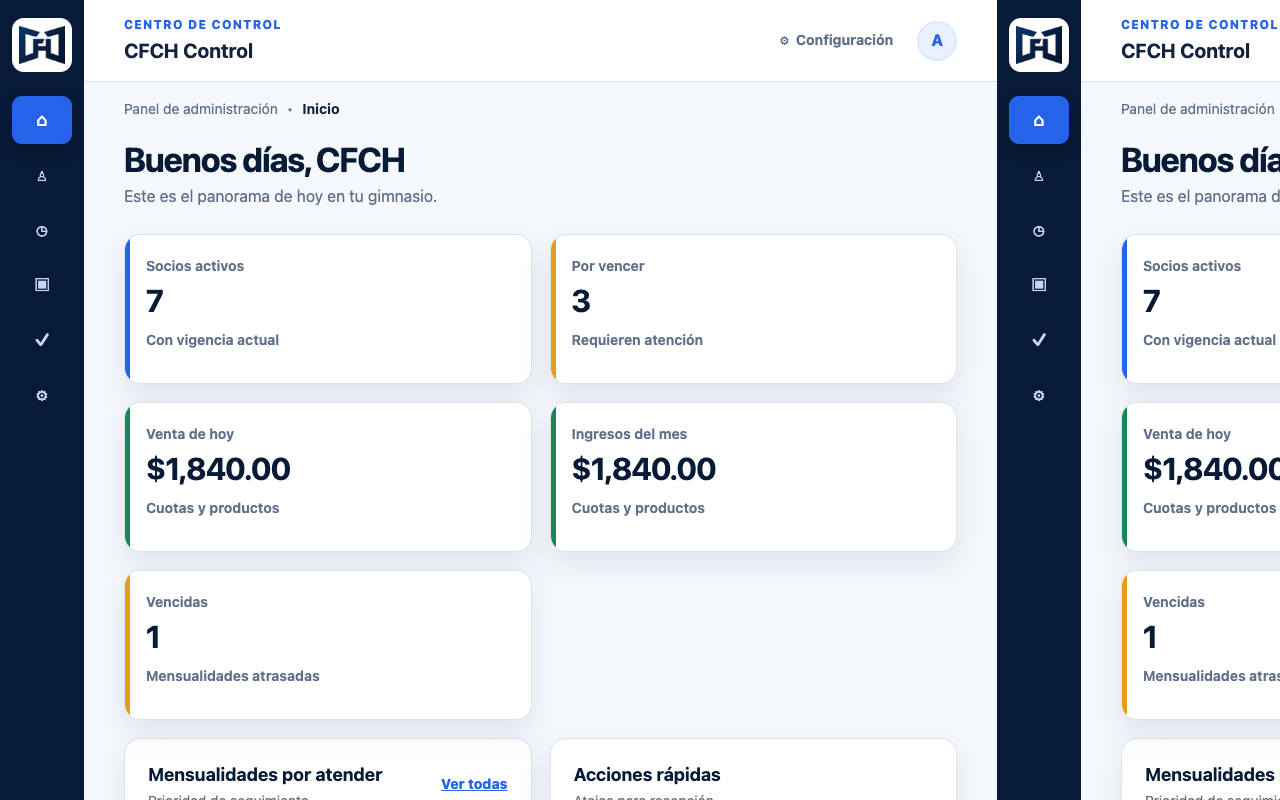
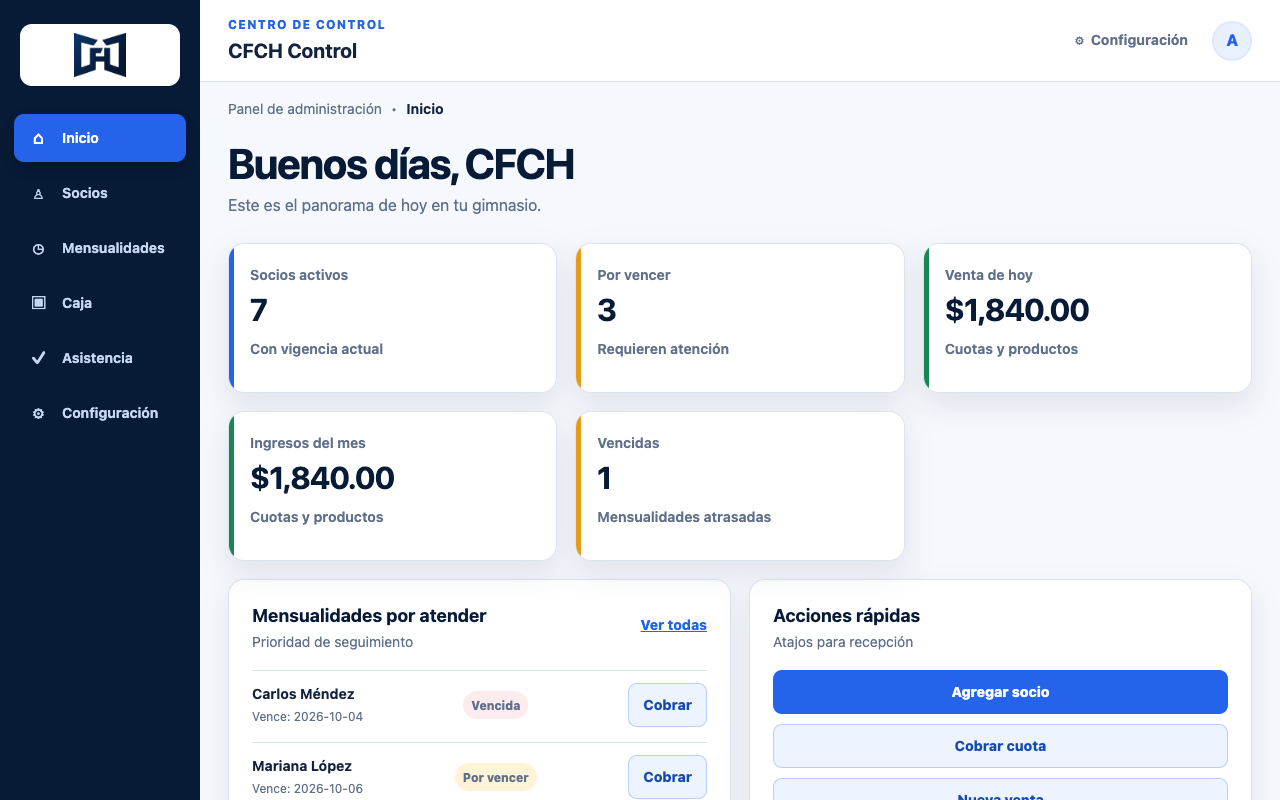
refactor: simplify header, update public labels, streamline project copy and update CFCH preview

diff --git a/src/data/projects.ts b/src/data/projects.ts
@@ -70,8 +70,7 @@ export interface LanguageItem {
 
 export const PROFILE_DATA = {
   fullName: "Heidelbergh Oliver Canto",
-  title: "Desarrollador Front End",
-  subtitle: "Experiencia Front End y Full Stack",
+  title: "Desarrollador Front End · React, Next.js y TypeScript",
   location: "Quintana Roo, México",
   statement:
     "Desarrollador Front End con experiencia Full Stack desde 2021, enfocado en React, Next.js y TypeScript. Construyo interfaces legibles, eficientes y accesibles, con experiencia comprobada en integración de APIs REST y GraphQL, autenticación con Supabase, manejo de datos y diseño responsive adaptado a móvil.",
@@ -94,15 +93,15 @@ export const PROJECTS_DATA: Project[] = [
     year: "2026",
     category: "Catálogo y Showroom Digital",
     featured: true,
-    statusLabel: "Demostración pública disponible",
+    statusLabel: "Demo disponible",
     needSolved:
       "Digitalización del catálogo de revestimientos arquitectónicos para agilizar la consulta técnica de contratistas y facilitar la cotización directa de materiales.",
     description:
-      "Catálogo comercial y showroom visual de acabados (lambrín, piedra flexible, paneles PVC tipo mármol, pisos SPC, deck exterior y luminarias). Diseñado para consulta ágil de especificaciones técnicas y enlace directo a cotización personalizada por WhatsApp.",
+      "Catálogo digital y showroom visual para consulta ágil de especificaciones de revestimientos arquitectónicos y generación paramétrica de cotizaciones directas vía WhatsApp por código SKU.",
     technicalDecision:
-      "Renderizado estático optimizado con Vite/Vinext y Next.js, implementando filtrado en memoria sin recargas para asegurar respuesta instantánea en dispositivos móviles en obra.",
+      "Renderizado estático optimizado con Vite y Next.js con filtrado en memoria sin recargas para asegurar respuesta instantánea en dispositivos móviles en obra.",
     personalContribution:
-      "Desarrollo completo de la interfaz en Next.js, carrusel editorial interactivo con imágenes de alta definición, sistema de filtros dinámicos por categoría y generador paramétrico de enlaces comerciales a WhatsApp por código SKU.",
+      "Desarrollo completo de la interfaz en Next.js, carrusel editorial interactivo con imágenes optimizadas, sistema de filtros dinámicos por categoría y generador de enlaces comerciales a WhatsApp.",
     verifiedFeatures: [
       "Filtrado instantáneo en memoria de productos y colecciones por categoría técnica.",
       "Generador de mensajes de cotización vinculados al SKU del material seleccionado.",
@@ -135,15 +134,15 @@ export const PROJECTS_DATA: Project[] = [
     year: "2026",
     category: "Panel Administrativo / CRM Deportivo",
     featured: false,
-    statusLabel: "Demostración pública disponible",
+    statusLabel: "Demo disponible",
     needSolved:
       "Administración integral de socios, cobro de mensualidades por planes y registro de punto de venta (POS) para centros deportivos, eliminando registros manuales en papel.",
     description:
-      "Panel de administración interactivo para gestión de gimnasios y centros funcionales. Permite consultar el estado de membresías de socios (al corriente, por vencer, vencidas), registrar pagos, operar el punto de venta de mostrador y registrar asistencia diaria con persistencia demostrativa local.",
+      "Panel de administración interactivo para gestión de gimnasios: seguimiento de socios, control de vigencias de membresías y punto de venta (POS) de mostrador.",
     technicalDecision:
-      "Arquitectura SPA modular en JavaScript estructurada con separación de dominio, servicios de validación desacoplados, máquina de estado centralizada e interfaz reactiva sin dependencias externas pesadas.",
+      "Arquitectura SPA modular en JavaScript estructurada con separación de dominio, servicios de validación desacoplados y máquina de estado centralizada.",
     personalContribution:
-      "Arquitectura de componentes de interfaz (AppShell, diálogos modales, tablas de datos con ordenamiento), gestión de estado en memoria y flujos de cobro con cálculo de vigencias.",
+      "Construcción de la interfaz (AppShell, modales accesibles y tablas con ordenamiento), gestión de estado en memoria y flujos de cobro con cálculo de vigencias.",
     verifiedFeatures: [
       "Tablero de control con métricas en tiempo real de socios activos, asistencias y ventas del día.",
       "Módulo de socios con búsqueda por nombre y filtros por vigencia de membresía.",
@@ -176,15 +175,15 @@ export const PROJECTS_DATA: Project[] = [
     year: "2026",
     category: "Menú Digital y Pedidos",
     featured: false,
-    statusLabel: "Demostración pública disponible",
+    statusLabel: "Demo disponible",
     needSolved:
       "Catálogo digital accesible para restaurantes que permite a los comensales seleccionar platillos y formalizar pedidos directos sin intermediarios ni comisiones de plataformas.",
     description:
-      "Demostración interactiva de menú digital para restaurantes y cafeterías. Integra catálogo fotográfico organizado por categorías gastronómicas, selector de porciones y notas especiales, carrito de compra flotante con cálculo en vivo y generador de resumen para pedido directo.",
+      "Demostración interactiva de menú digital para restaurantes con navegación rápida por categorías, selección de opciones y carrito flotante con cálculo en vivo.",
     technicalDecision:
-      "Maquetación editorial ligera en HTML5 semántico y Vanilla JavaScript, garantizando carga inmediata bajo conexiones móviles lentas y experiencia táctil fluida con drawer deslizable.",
+      "Maquetación semántica y ligera con Vanilla JavaScript y CSS moderno para asegurar carga inmediata bajo conexiones móviles lentas.",
     personalContribution:
-      "Desarrollo del flujo interactivo de carrito en el cliente: cálculo reactivo de totales, persistencia de notas de comensal, apertura/cierre accesible del drawer y formateo de texto de orden.",
+      "Desarrollo del flujo interactivo del carrito en el cliente: cálculo reactivo de importes, notas de comensal y drawer lateral accesible.",
     verifiedFeatures: [
       "Catálogo fotográfico con navegación rápida por categorías y estados activos.",
       "Carrito interactivo con controles de adición, sustracción y desglose de precio.",
@@ -217,15 +216,15 @@ export const PROJECTS_DATA: Project[] = [
     year: "2026",
     category: "Aplicación Web de Eventos",
     featured: false,
-    statusLabel: "Demostración pública disponible",
+    statusLabel: "Demo disponible",
     needSolved:
       "Gestión de invitaciones digitales para eventos con confirmación de asistencia en tiempo real, asignación personalizada de cupos y acceso administrativo protegido.",
     description:
-      "Sitio web para evento con experiencia multimedia: carrusel a pantalla completa, reproductor de música ambiental, cuenta regresiva dinámica, visor fotográfico en lightbox y formulario RSVP demostrativo con control estricto de cupos.",
+      "Aplicación web para evento con experiencia multimedia: cuenta regresiva, reproductor musical ambiental, galería en lightbox y formulario RSVP con asignación de pases.",
     technicalDecision:
-      "Arquitectura desacoplada en JavaScript Vanilla modular con cliente Supabase en el panel administrativo, permitiendo una experiencia de usuario rápida y liviana en la invitación pública junto con acceso restringido para los anfitriones.",
+      "Arquitectura desacoplada en JavaScript modular con cliente Supabase en el panel de administración privado para separar la experiencia pública de la gestión de invitados.",
     personalContribution:
-      "Construcción completa de la interfaz con HTML5 semántico, CSS3 modular y JavaScript orientado a eventos; integración del cliente Supabase para consulta en panel de gestión privada.",
+      "Construcción completa de la interfaz con HTML5 semántico y CSS3 modular, lógica orientada a eventos e integración de Supabase para consulta en panel privado.",
     verifiedFeatures: [
       "Formulario RSVP con validación de invitados, opción de confirmación y selección de pases asignados.",
       "Panel de administración privado con autenticación Supabase JS para consulta de confirmados.",
@@ -262,11 +261,11 @@ export const PROJECTS_DATA: Project[] = [
     needSolved:
       "Acompañamiento personal guiado a través de experiencias de oración estructuradas, eliminando la fricción y distracciones para el usuario en momentos de silencio y contemplación.",
     description:
-      "Aplicación web de oración y acompañamiento contemplativo por etapas. Proporciona un catálogo temático de reflexiones con audio sincronizado, el módulo interactivo 'Camino' para registrar y categorizar intenciones personales, y sesiones autenticadas persistentes mediante Supabase SSR. Presentado como proyecto en desarrollo con código fuente público en GitHub.",
+      "Aplicación web de oración y acompañamiento contemplativo por etapas, con reflexiones guiadas en audio y registro categorizado de intenciones personales ('Camino').",
     technicalDecision:
-      "Implementación de Next.js App Router combinando Server Components para la carga inicial de datos con Client Components en las sesiones interactivas, reduciendo la sobrecarga de estado en el cliente y manteniendo la sincronización de sesión con cookies HTTP-only vía @supabase/ssr.",
+      "Next.js App Router combinando Server Components para carga inicial y Client Components para sesiones interactivas, con sincronización de sesiones mediante cookies HTTP-only vía @supabase/ssr.",
     personalContribution:
-      "Arquitectura completa del front-end en Next.js (React 19, TypeScript), diseño de componentes modulares con Tailwind CSS, gestión de estado con contextos React e integración de autenticación persistente.",
+      "Arquitectura del front-end en Next.js (React 19, TypeScript), diseño de componentes modulares con Tailwind CSS, contextos de estado e integración de autenticación persistente.",
     verifiedFeatures: [
       "Flujo guiado de oración por etapas con controles multimedia libres de fricción.",
       "Módulo 'Camino' para gestión de intenciones con filtros de estado (orando, agradecida, pausada).",
@@ -303,11 +302,11 @@ export const PROJECTS_DATA: Project[] = [
     needSolved:
       "Gestión integral de catálogo de productos, procesamiento de órdenes, administración de inventarios y control de acceso seguro mediante panel administrativo.",
     description:
-      "Plataforma de comercio electrónico con panel administrativo privado desarrollado dentro de un equipo ágil de tres ingenieros en Kaizenzo. Incluye exploración y filtrado dinámico de productos, gestión de tablas relacionales, operaciones CRUD completas y autenticación con control de roles.",
+      "Plataforma de comercio electrónico con catálogo de productos y panel administrativo privado para gestión de órdenes, inventarios y clientes.",
     technicalDecision:
-      "Uso de Next.js junto a Supabase y Node.js para desacoplar las operaciones públicas del catálogo de las transacciones protegidas del panel administrativo con JWT, garantizando validación de esquemas en servidor y consultas relacionales eficientes.",
+      "Next.js desacoplado junto a Supabase y servicios Node.js con autenticación JWT para separar las vistas públicas del catálogo de las operaciones CRUD protegidas.",
     personalContribution:
-      "Desarrollo colaborativo de vistas de catálogo y componentes de administración en React y TypeScript, consumo de endpoints REST/GraphQL, diseño de interfaces responsive con Tailwind CSS y validación funcional con Jest y Postman.",
+      "Desarrollo colaborativo en React y TypeScript para vistas de catálogo y administración, consumo de endpoints REST/GraphQL, diseño responsive con Tailwind CSS y pruebas unitarias con Jest.",
     verifiedFeatures: [
       "Catálogo público de productos con búsqueda en tiempo real y filtros combinados.",
       "Panel administrativo con tablas de datos, relaciones y operaciones CRUD seguras.",

diff --git a/src/components/ProjectItems.tsx b/src/components/ProjectItems.tsx
@@ -45,15 +45,11 @@ export function FeaturedProject({ project }: FeaturedProjectProps) {
             {project.title}
           </h3>
 
-          <p className="text-sm font-medium text-[#78716C] mb-3">
-            <strong className="text-[#1C1917]">Propósito:</strong> {project.needSolved}
-          </p>
-
           <p className="text-base text-[#57534E] leading-relaxed mb-4">
             {project.description}
           </p>
 
-          {/* Decisión técnica comprobada */}
+          {/* Decisión técnica */}
           <div className="mb-4 border-l-2 border-[#0A2540] pl-3 py-0.5">
             <span className="text-xs font-mono font-semibold uppercase tracking-wider text-[#1C1917] block mb-1">
               Decisión técnica
@@ -65,7 +61,7 @@ export function FeaturedProject({ project }: FeaturedProjectProps) {
 
           {/* Contribución personal */}
           <div className="mb-4 text-xs sm:text-sm text-[#57534E] leading-relaxed">
-            <strong className="text-[#1C1917] block mb-1">Contribución confirmada:</strong>
+            <strong className="text-[#1C1917] block mb-1">Mi trabajo:</strong>
             <p>{project.personalContribution}</p>
           </div>
 
@@ -141,10 +137,6 @@ export function CompactProject({ project }: CompactProjectProps) {
               {project.title}
             </h3>
 
-            <p className="text-xs sm:text-sm text-[#78716C] mb-2.5">
-              <strong className="text-[#1C1917] font-medium">Propósito:</strong> {project.needSolved}
-            </p>
-
             <p className="text-sm sm:text-base text-[#57534E] leading-relaxed mb-3">
               {project.description}
             </p>
@@ -164,7 +156,7 @@ export function CompactProject({ project }: CompactProjectProps) {
             {/* Contribución */}
             {project.personalContribution && (
               <p className="text-xs sm:text-sm text-[#57534E] leading-relaxed mb-3">
-                <strong className="text-[#1C1917] font-medium">Contribución confirmada:</strong> {project.personalContribution}
+                <strong className="text-[#1C1917] font-medium">Mi trabajo:</strong> {project.personalContribution}
               </p>
             )}
 

diff --git a/src/app/page.tsx b/src/app/page.tsx
@@ -33,9 +33,6 @@ export default function Home() {
 
               <p className="text-xl sm:text-2xl font-semibold text-[#0A2540] tracking-tight mt-1 mb-2">
                 {PROFILE_DATA.title}
-                <span className="text-sm sm:text-base font-normal text-[#78716C] ml-2 block sm:inline">
-                  — {PROFILE_DATA.subtitle}
-                </span>
               </p>
 
               <p className="text-xs font-mono text-[#78716C] mb-6">
@@ -73,7 +70,7 @@ export default function Home() {
 
         {/* ========================================================
             2. PROYECTOS SELECCIONADOS
-            1 Proyecto Destacado (Con Fe) + 4 Proyectos con detalle
+            1 Proyecto Destacado (Kansol) + Proyectos con detalle
            ======================================================== */}
         <section id="proyectos" className="py-20 border-b border-[#E7E5E4]">
           <div className="container-editorial">
@@ -85,7 +82,7 @@ export default function Home() {
                 Proyectos
               </h2>
               <p className="mt-2 text-base text-[#57534E] leading-relaxed">
-                Casos de desarrollo que explican la necesidad resuelta, funcionalidades implementadas, decisiones técnicas y contribución personal confirmada.
+                Casos de desarrollo que muestran la solución implementada, decisiones técnicas y mi trabajo en cada interfaz.
               </p>
             </div>
 

diff --git a/src/components/ExperienceSection.tsx b/src/components/ExperienceSection.tsx
@@ -54,7 +54,7 @@ export function ExperienceSection() {
               {/* Columna derecha: Responsabilidades y logros técnicos */}
               <div className="lg:col-span-7">
                 <span className="text-xs font-mono text-[#78716C] block mb-2">
-                  Responsabilidades comprobadas:
+                  Responsabilidades:
                 </span>
                 <ul className="space-y-2.5 text-sm text-[#57534E]">
                   {exp.responsibilities.map((resp, rIdx) => (
@@ -76,7 +76,7 @@ export function ExperienceSection() {
               Experiencia complementaria
             </h3>
             <p className="text-xs sm:text-sm text-[#78716C] leading-relaxed">
-              Trayectoria en gestión operativa, coordinación de equipos, asesoría jurídica y administración de proyectos previos a la especialización tecnológica.
+              Experiencia adicional en gestión y coordinación de equipos.
             </p>
           </div>
 

diff --git a/src/components/Header.tsx b/src/components/Header.tsx
@@ -51,7 +51,7 @@ export function Header() {
           <span className="font-semibold tracking-tight text-base sm:text-lg group-hover:text-[#0A2540] transition-colors duration-200">
             {PROFILE_DATA.fullName}
           </span>
-          <span className="text-xs text-[#78716C] font-mono tracking-normal hidden sm:inline">
+          <span className="text-xs text-[#78716C] font-mono tracking-normal hidden lg:inline">
             / {PROFILE_DATA.title}
           </span>
         </Link>

diff --git a/src/components/SkillsSection.tsx b/src/components/SkillsSection.tsx
@@ -12,7 +12,7 @@ export function SkillsSection() {
             Competencias
           </h2>
           <p className="mt-2 text-base text-[#57534E] leading-relaxed">
-            Organización de capacidades técnicas basadas en experiencia profesional y proyectos desarrollados. Sin porcentajes ni métricas abstractas.
+            Organización de capacidades técnicas basadas en experiencia profesional y proyectos desarrollados.
           </p>
         </div>
 
